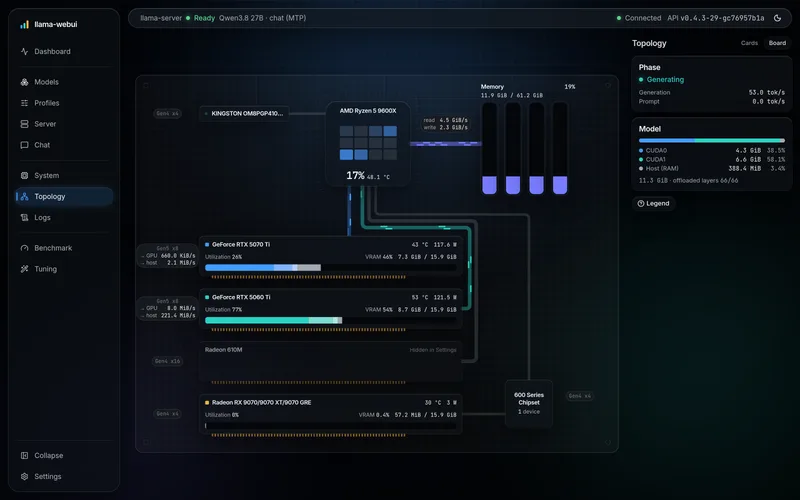
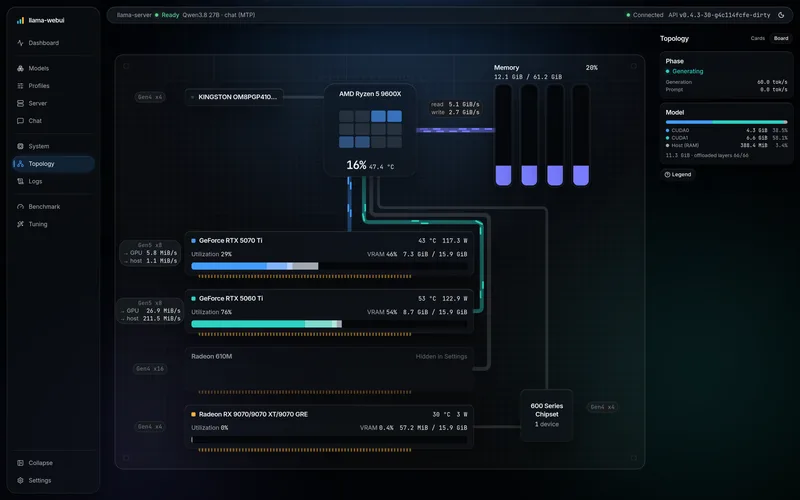
docs: Describe the details popover and the page's layout, retake the captures
The Topology shots are taken in a larger window, where the side column
stays at the right of both views.

diff --git a/site/scripts/shots.ts b/site/scripts/shots.ts
@@ -24,6 +24,11 @@ export interface Shot {
   live?: boolean;
   /** Captured with motion on, for a page whose reduced-motion drawing is a fallback (Topology: streaks, not dashes). */
   motion?: boolean;
+  /**
+   * Captured in a larger window, of the same shape as the others (the image has their size): a page laid out by the
+   * room it has (Topology: its side column at the right).
+   */
+  viewport?: { width: number; height: number };
   /** Only captured when named on the command line. */
   manual?: boolean;
 }
@@ -104,6 +109,9 @@ async function scrollMainToBottom(page: Page) {
   });
 }
 
+/** Wide enough for the Topology page to keep its column at the right of both views. */
+const TOPOLOGY_VIEWPORT = { width: 1920, height: 1200 };
+
 export const SHOTS: Shot[] = [
   // Captured on the empty demo instance, before `demo-seed.ts setup`.
   { name: 'setup', path: '/setup', readyText: 'Welcome to llama-webui', goneText: 'Checking…', manual: true },
@@ -117,6 +125,7 @@ export const SHOTS: Shot[] = [
     prepare: (page) => clickButton(page, 'Cards'),
     live: true,
     motion: true,
+    viewport: TOPOLOGY_VIEWPORT,
     delayMs: 6000,
   },
   {
@@ -126,6 +135,7 @@ export const SHOTS: Shot[] = [
     prepare: (page) => clickButton(page, 'Board'),
     live: true,
     motion: true,
+    viewport: TOPOLOGY_VIEWPORT,
     delayMs: 6000,
   },
   { name: 'server', path: '/server', readyText: 'Effective command' },

diff --git a/site/src/landing/sections/MonitoringSection.tsx b/site/src/landing/sections/MonitoringSection.tsx
@@ -67,7 +67,7 @@ export function MonitoringSection() {
               <Shot
                 name="topology"
                 alt="Topology page: the CPU, memory, GPUs and NVMe drive as cards joined by their links, the GPUs filled to the memory they hold, with the model split per device"
-                crop={{ x: 0.16, y: 0.055, w: 0.835, h: 0.77 }}
+                crop={{ x: 0.13, y: 0.045, w: 0.865, h: 0.8 }}
                 width="min(46rem, 90vw)"
                 className={SHOT_FRAME}
               />

diff --git a/site/scripts/screenshots.ts b/site/scripts/screenshots.ts
@@ -60,6 +60,7 @@ try {
     for (const shot of shots) {
       const page = await browser.newPage();
       try {
+        if (shot.viewport) await page.setViewport({ ...VIEWPORT, ...shot.viewport });
         if (!shot.motion) await page.emulateMediaFeatures([{ name: 'prefers-reduced-motion', value: 'reduce' }]);
         await page.goto(`${base}${shot.path}`, { waitUntil: 'networkidle2' });
         if (shot.readyText) await page.waitForSelector(`::-p-text(${shot.readyText})`, { timeout: 15_000 });
